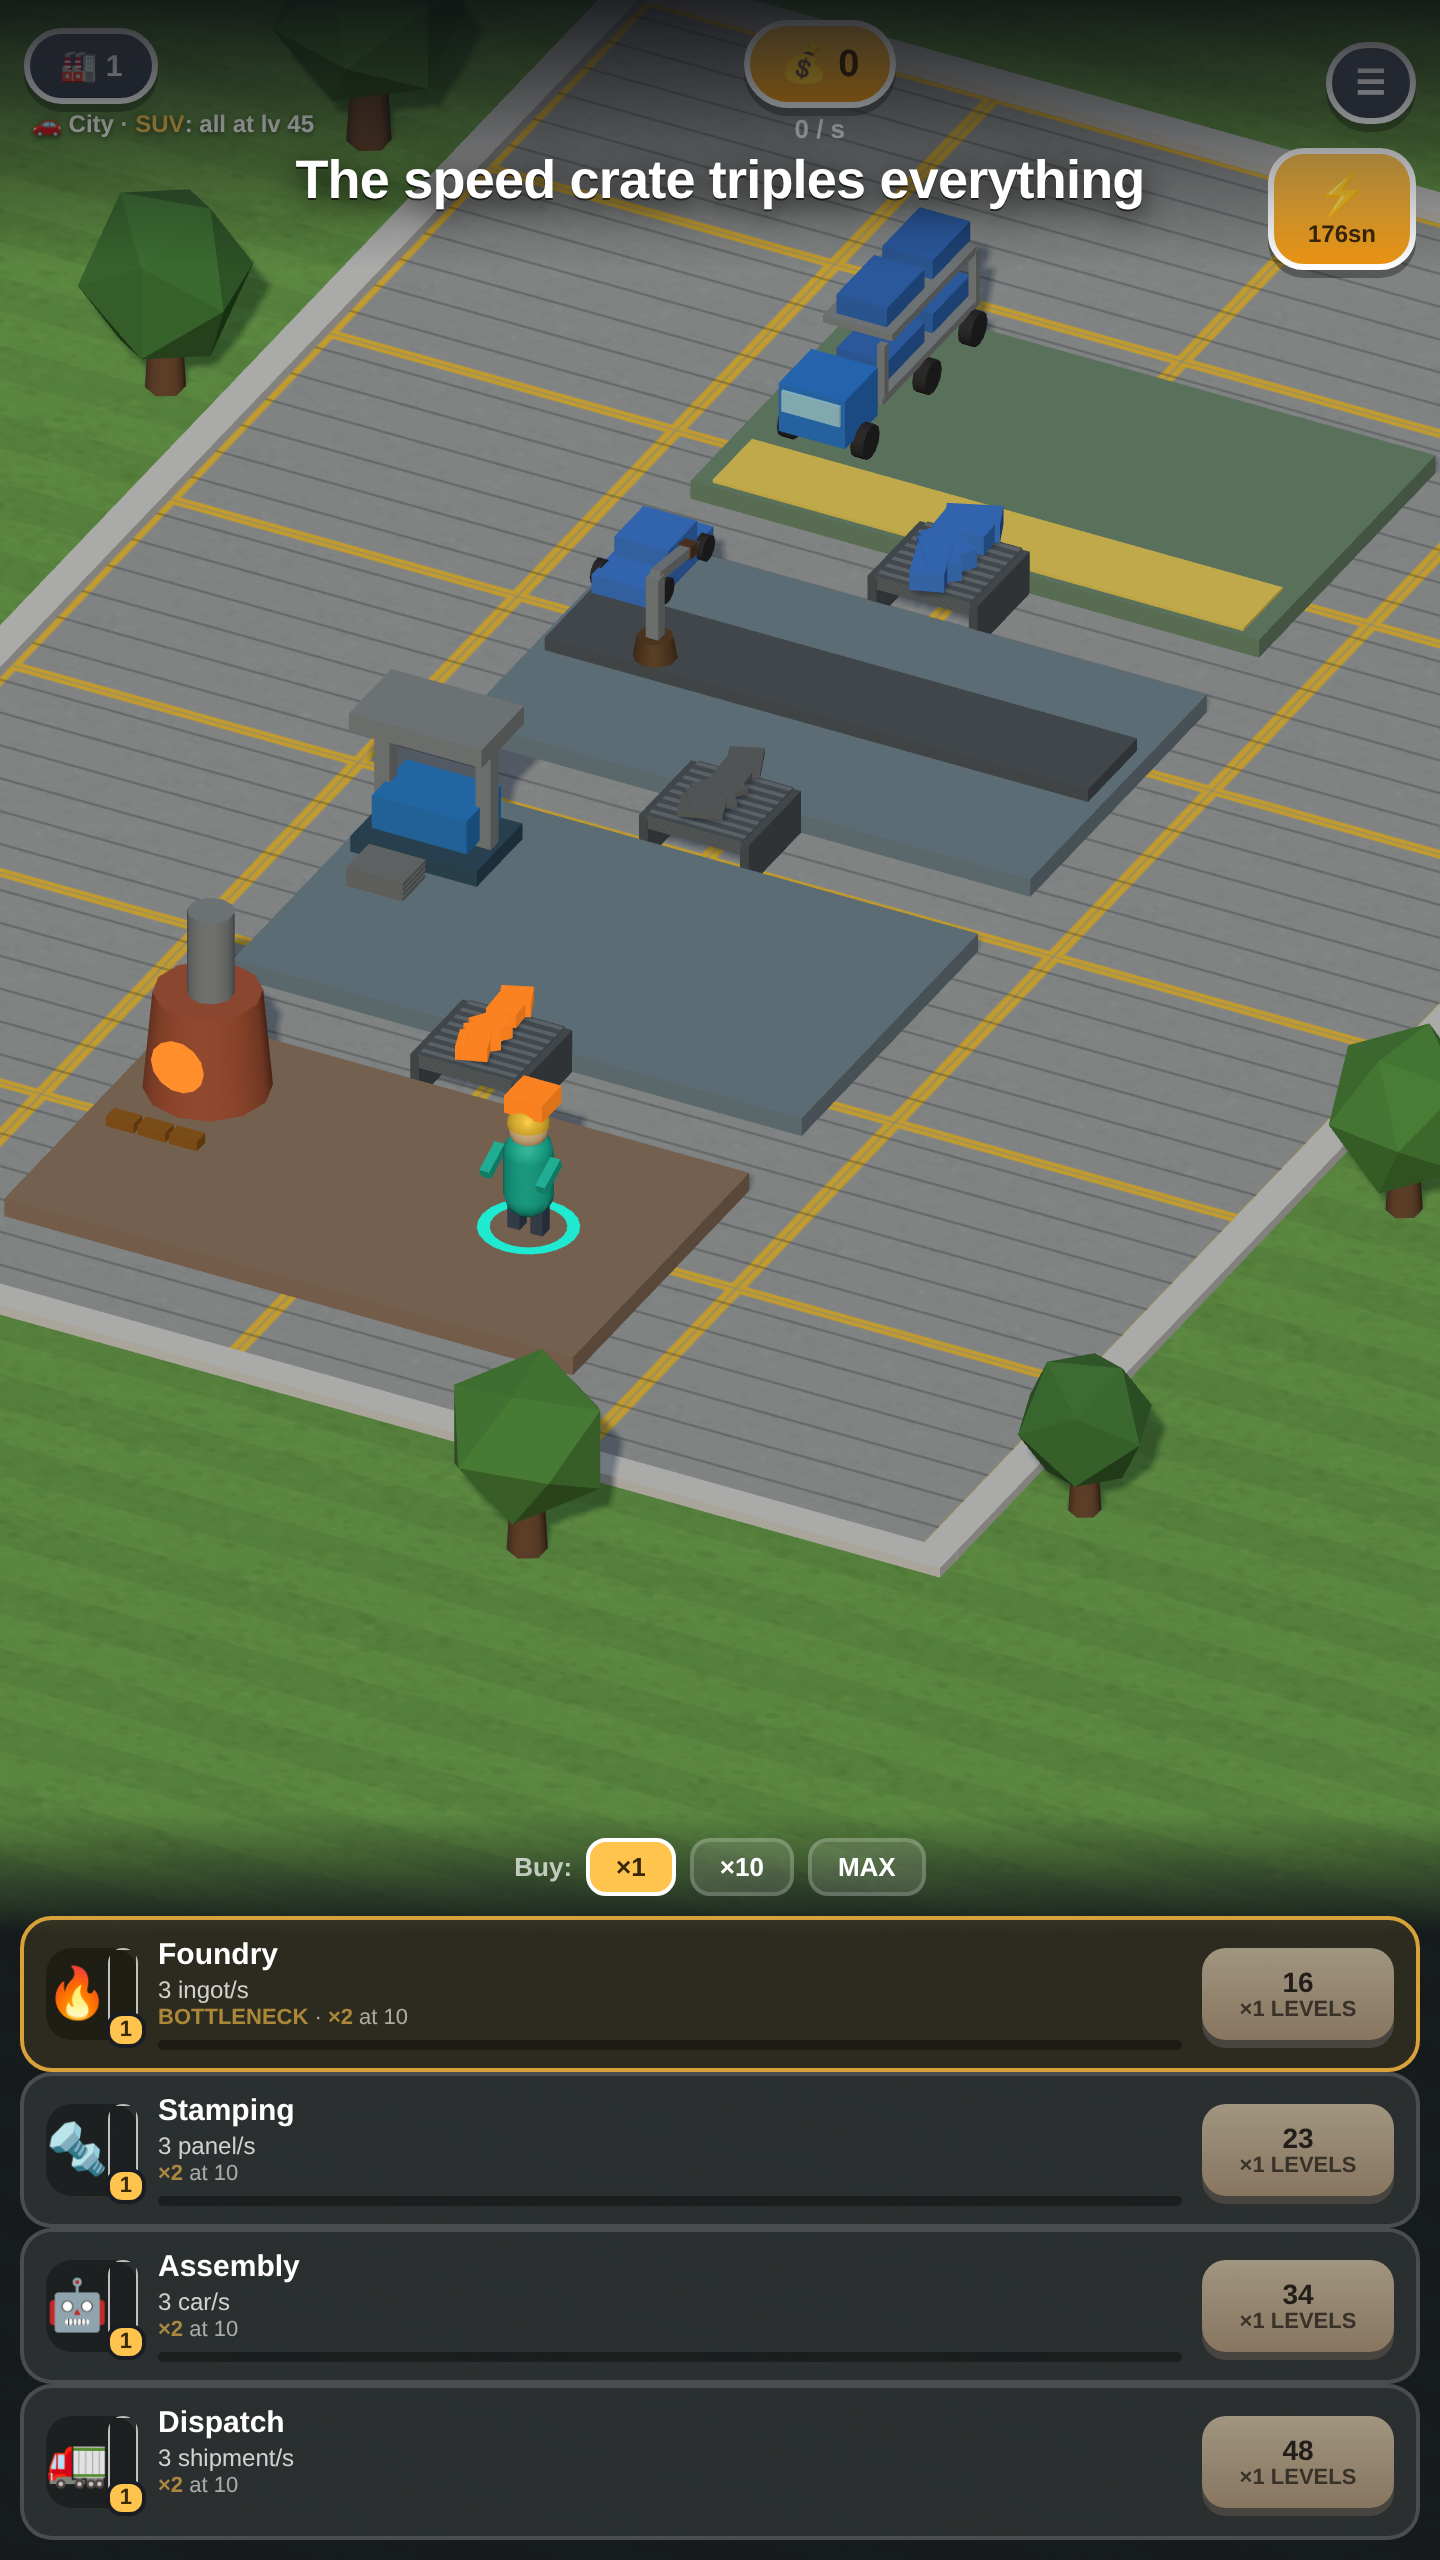
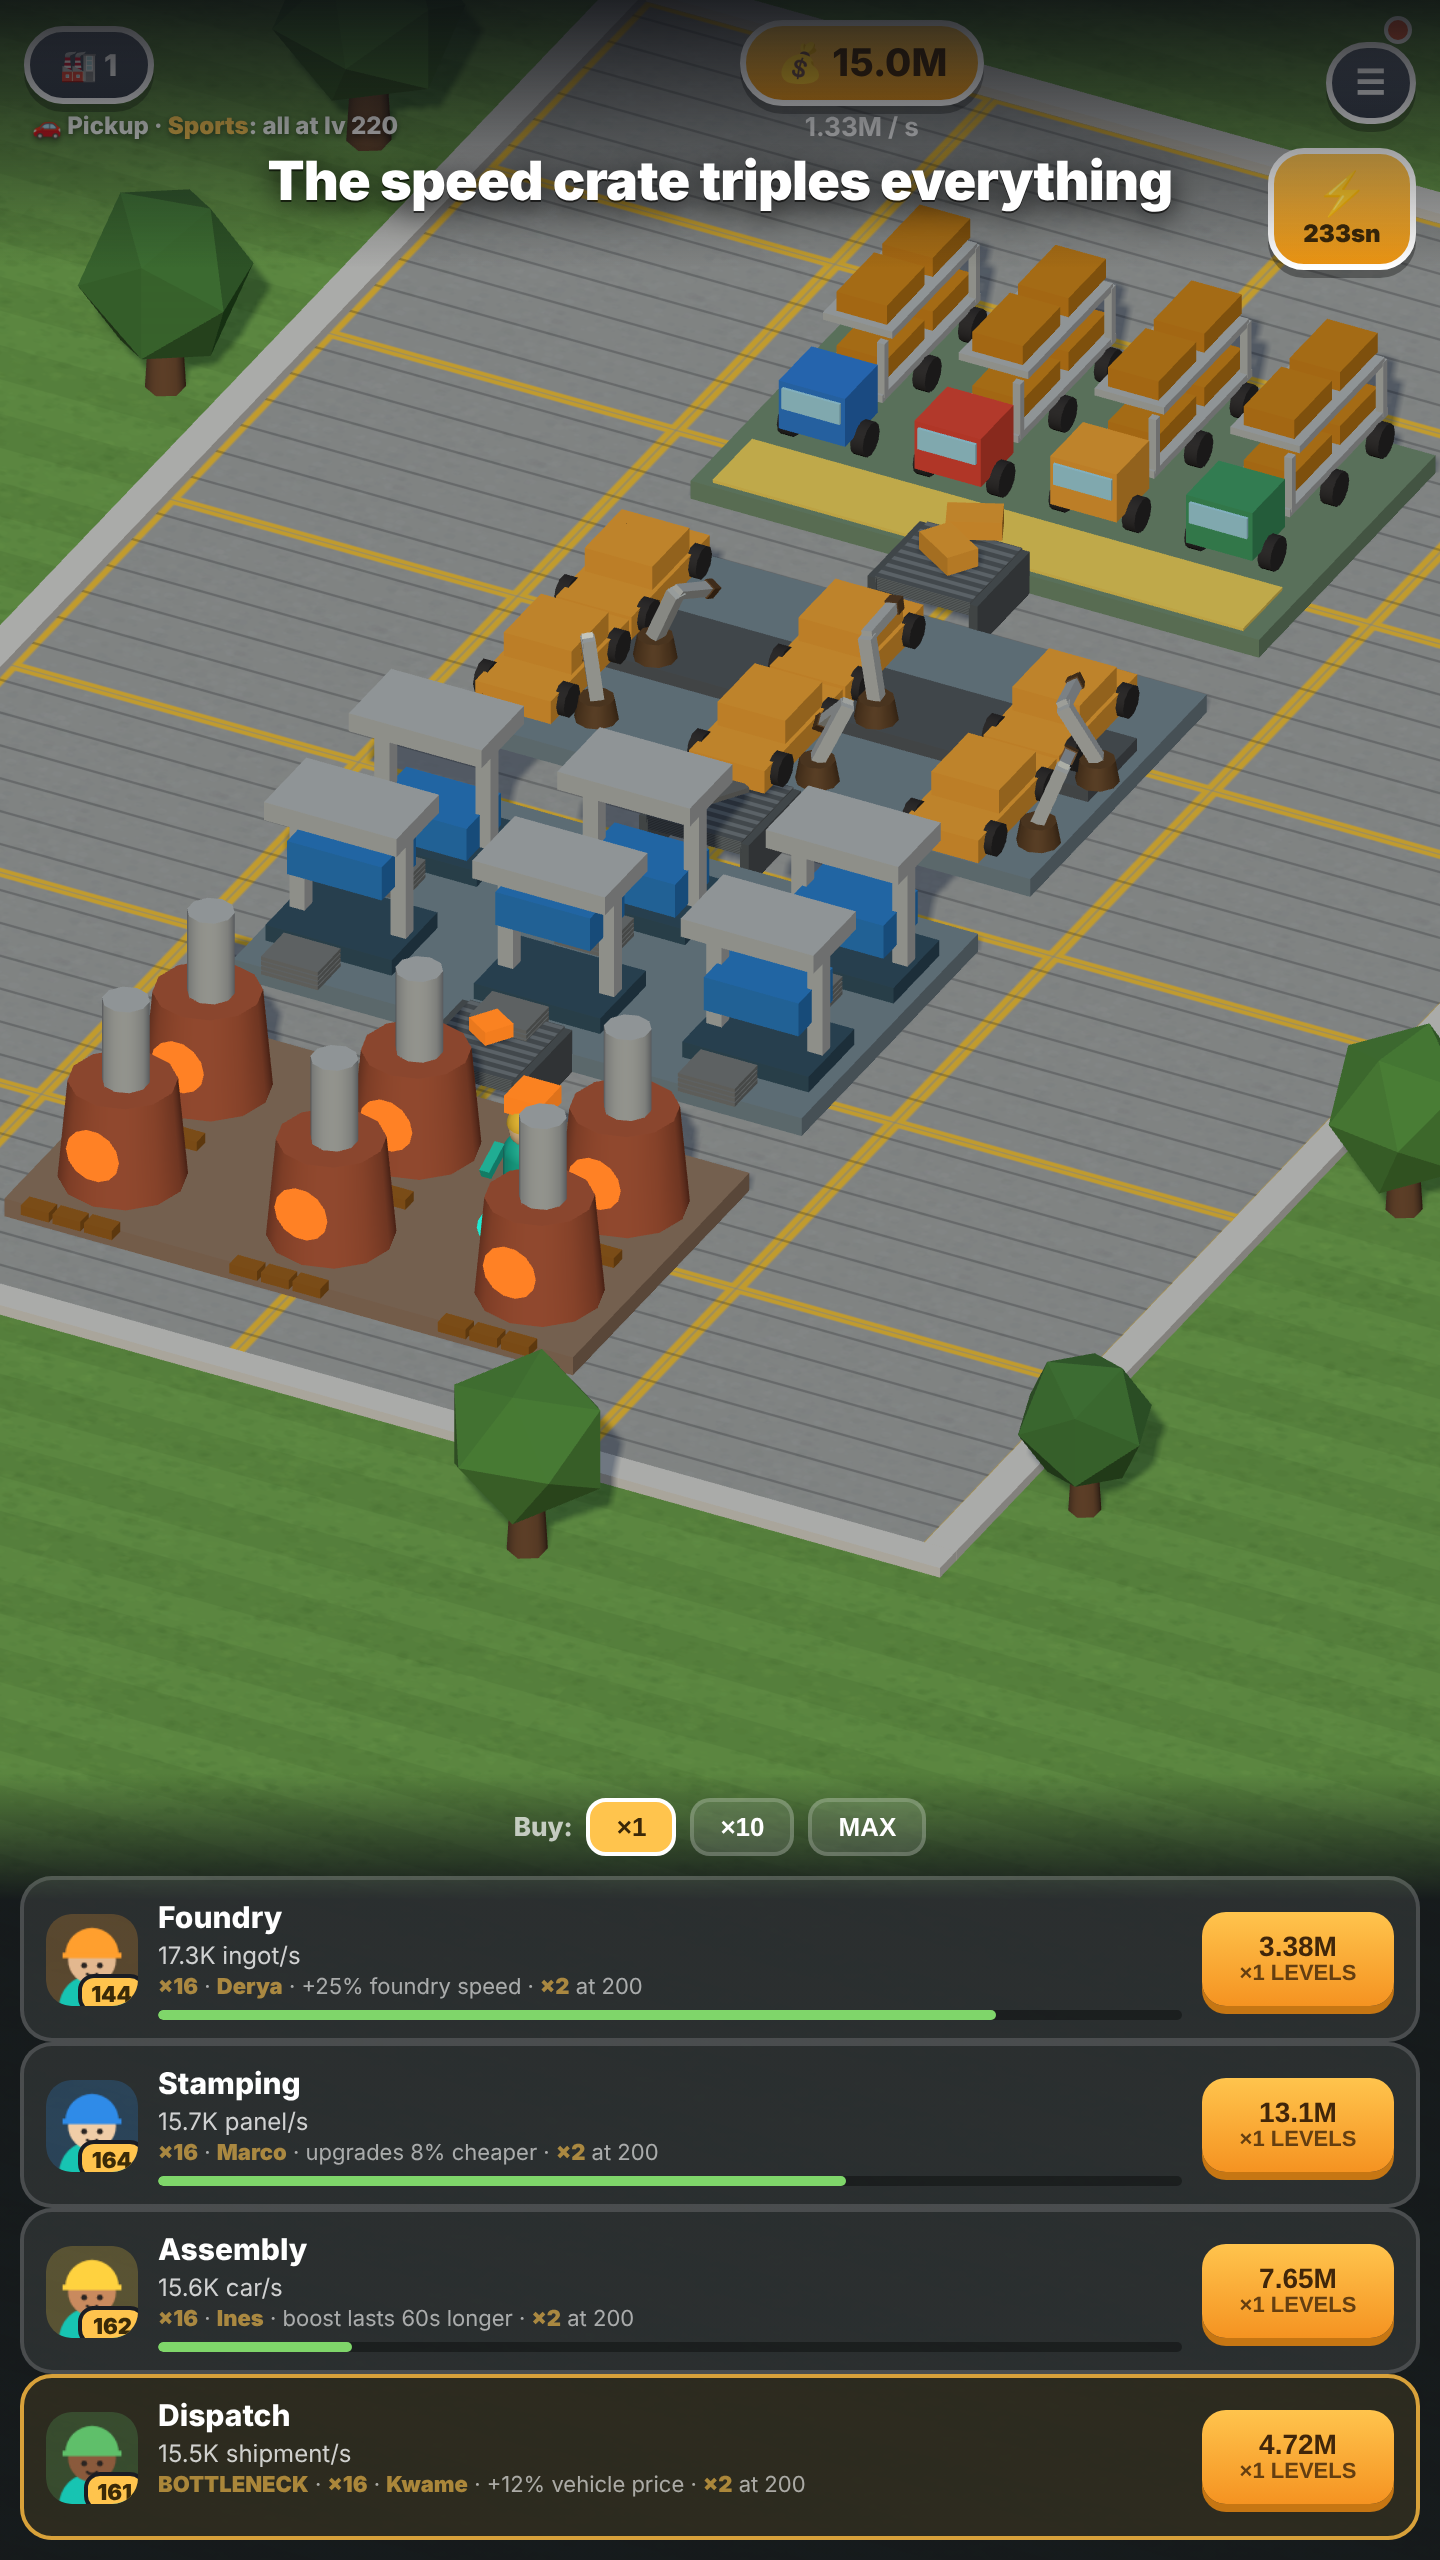
Motor Works: regenerate store screenshots, two new frames
The six screenshots on disk were taken before the lighting pass, the
grass, the branch locations, the scaled-up worker, the manager portraits
and the customer car. They showed a game that no longer exists.

Worse, they showed no game at all. The capture script grows a factory by
calling jeRun(60) and buying the bottleneck at max, and since the carry
rework a station without a manager has its output moved by the worker —
who does not walk under jeRun. The chain never flowed, no money came in,
nothing was affordable, and all six frames came out at level 1 with zero
cash. The files were written anyway and nobody looked. The script now
turns on auto-carry for the manual phase, hires managers as they become
affordable, and throws if the factory did not grow.

Two frames added, taking it to the eight Play allows: the customer car
waiting to be tapped, and the tundra branch for "the yard moves".

Claude-Session: https://claude.ai/code/session_01JC1qWREgw5F7AUsNfWCUkf

diff --git a/tycoon/store/listing.md b/tycoon/store/listing.md
@@ -165,17 +165,26 @@ doldur.
 - `4-offline.png` — dönüş ekranı, 4 saatlik kazanç
 - `5-boost.png` — hız kutusu açık
 - `6-branch.png` — şube devri ekranı
+- `7-customer.png` — önlüğe giren müşteri arabası, dokunulmayı bekliyor
+- `8-location.png` — tundra şubesi: her prestijte önlük başka bir yere taşınıyor
 
 Telefon görüntüleri 1080×1920, gerçek oynanıştan çekilmiş, bu sırayla
 yüklenmeli. Aramada yalnızca ilk ikisi görünüyor ve o ikisinin tek işi
 büyümeyi anlatmak: **1 ile 2 aynı açıdan, biri dolu biri boş.**
 
-`tablet/` klasöründe aynı altısı 1440×2560 boyutunda — Play'in tablet
+`tablet/` klasöründe aynı sekizi 1440×2560 boyutunda — Play'in tablet
 alanlarında istediği 9:16 oranı bu, ve aynı dosyalar hem 7 inç hem 10 inç
 bölümüne konur.
 
 Görseller `scratchpad/tyshots.mjs` ve `scratchpad/tyfeature.mjs` ile
 üretiliyor; oyun değişince komutları yeniden çalıştırmak yeterli.
+
+**Oyun değişince kareleri yeniden çek.** Bir kere kaçırıldı: işçi taşıma
+düzeni değişince `jeRun` ile dönen bir fabrika hiç para kazanmaz oldu
+(müdürsüz istasyonun malını işçi taşıyor, `jeRun` işçiyi yürütmüyor) ve
+altı karenin altısı da birinci seviye, sıfır para gösterir hâle geldi —
+dosyalar yine yazıldı, kimse bakmadı. Komut artık fabrika büyümediyse
+hata verip duruyor.
 
 ## Yayın öncesi kontrol listesi
 
